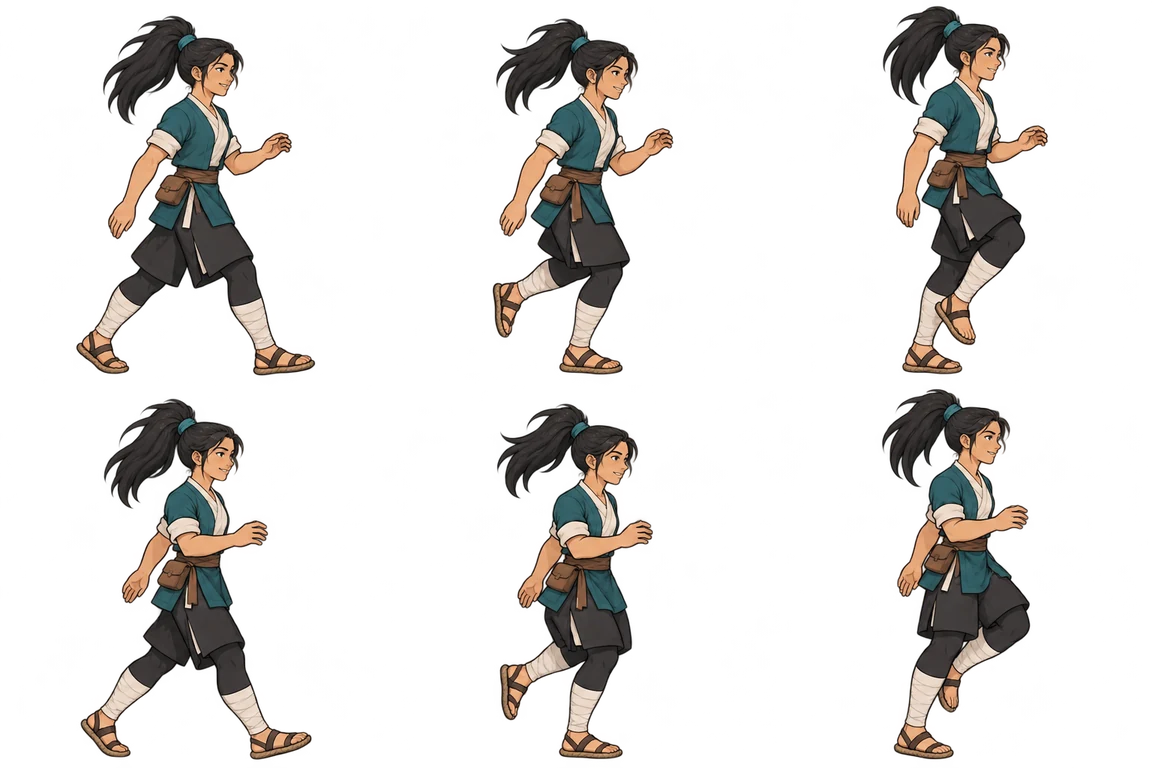
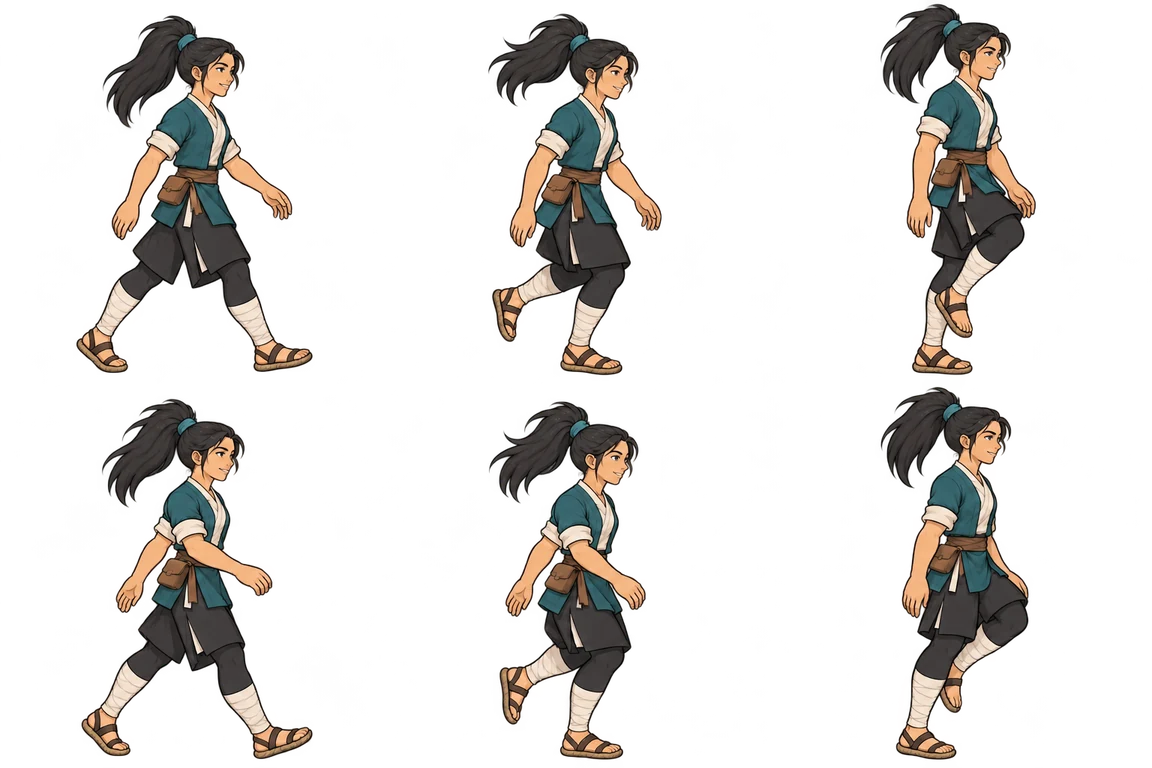
Import River's v4 walk (relaxed arms)
Claude-Session: https://claude.ai/code/session_0139SQ3pSU2Rk2ua1ecUKZrb

diff --git a/packages/platform/test/sprites.test.ts b/packages/platform/test/sprites.test.ts
@@ -69,7 +69,7 @@ test('character sheets share one ground line (aerial sheets are drawn in the air
       continue;
     // The twins' sheets were drawn a few pixels higher (Rising Cast stands on 317).
     expect(s.sheet.ground, s.id).toBeGreaterThan(310);
-    // River's v3 walk stands lower in its cells (376 of 384); the renderer stands every
+    // River's walk (v3, v4) stands lower in its cells (375 of 384); the renderer stands every
     // sheet on its own ground line, so only feet touching the cell edge would be wrong.
     expect(s.sheet.ground, s.id).toBeLessThan(380);
   }

diff --git a/tools/art/import_art.py b/tools/art/import_art.py
@@ -45,7 +45,7 @@ APPROVED = {
     "HERO-MTN-WALK": "HERO-MTN-WALK_v2.png",
     "HERO-WND-WALK": "HERO-WND-WALK_v2.png",
     "HERO-FIR-WALK": "HERO-FIR-WALK_v2.png",
-    "HERO-RIV-WALK": "HERO-RIV-WALK_v3.png",
+    "HERO-RIV-WALK": "HERO-RIV-WALK_v4.png",
 }
 
 HEROES = {

diff --git a/Guo_tests.md b/Guo_tests.md
@@ -1040,3 +1040,24 @@ If Vite prints another port than 5173, use that one. Stop the server with `Ctrl+
 4. **Wind:** press **F2**, set *Player 1 hero* to **wind**, close F2 and F1. Pick up the handwheel: she holds it in front of her chest, and it follows her when she walks and turns. Pick up the staff: she holds it slanted in front of her.
 5. **Fire:** repeat step 4 with **fire**.
 6. **Academy:** Village → Academy → Free Practice with Wind or Fire; pick up the weapons there: the same as in step 4.
+
+## Fix · River's walk with relaxed arms (v4)
+
+River's walk sheet v4 replaces v3: her arms now hang and swing loosely at hip height instead of one forearm staying raised. Same size and stride as v3.
+
+### Get and start the build
+
+```powershell
+cd C:\AI\Claude\FightForPeace
+git fetch origin
+git checkout main
+git pull origin main
+pnpm install
+pnpm dev
+```
+
+### Test steps
+
+1. Open `http://localhost:5173/?lab`, press **Num 4** so Player 2 (River) joins, and press **F1** to hide the panels.
+2. Walk River left and right with the arrow keys: both arms swing low and relaxed, no forearm raised in front of the chest; legs and arms still swap every step.
+3. She is the same size walking as standing, and next to Mountain looks as before.
